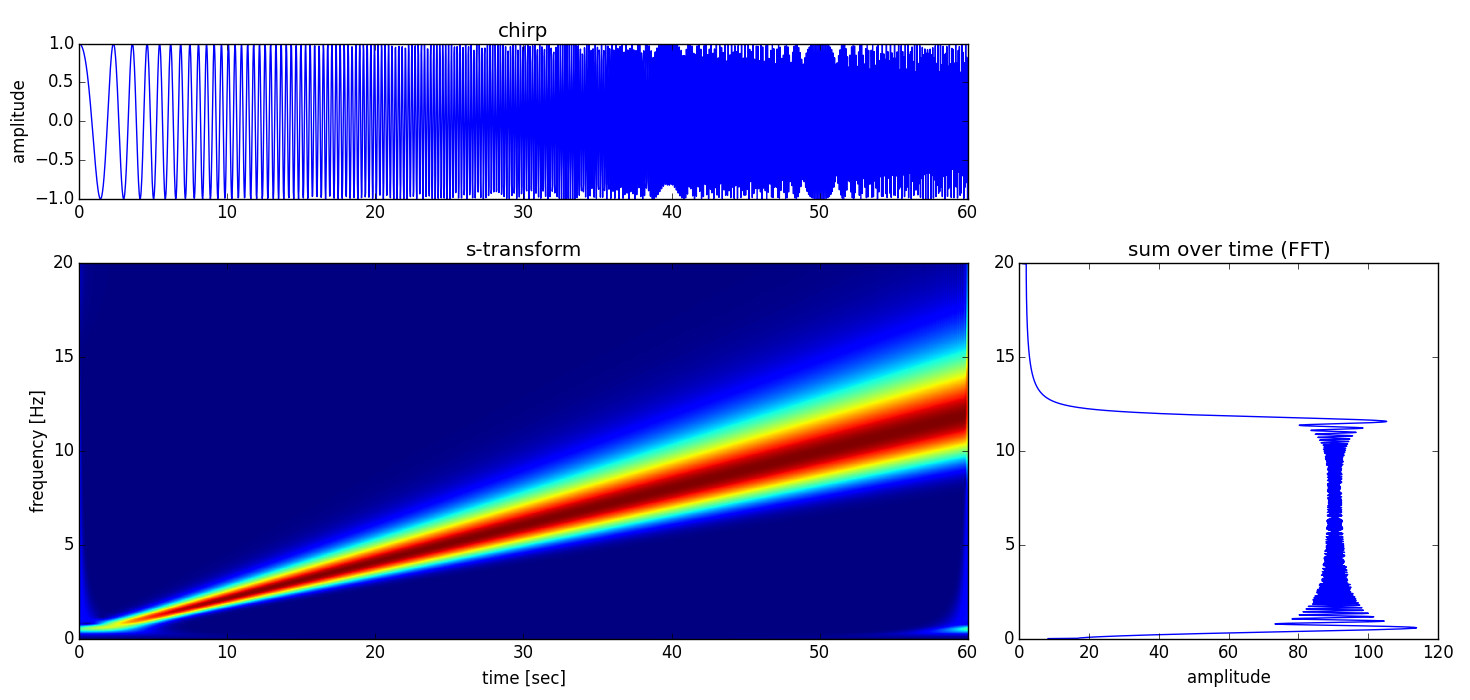
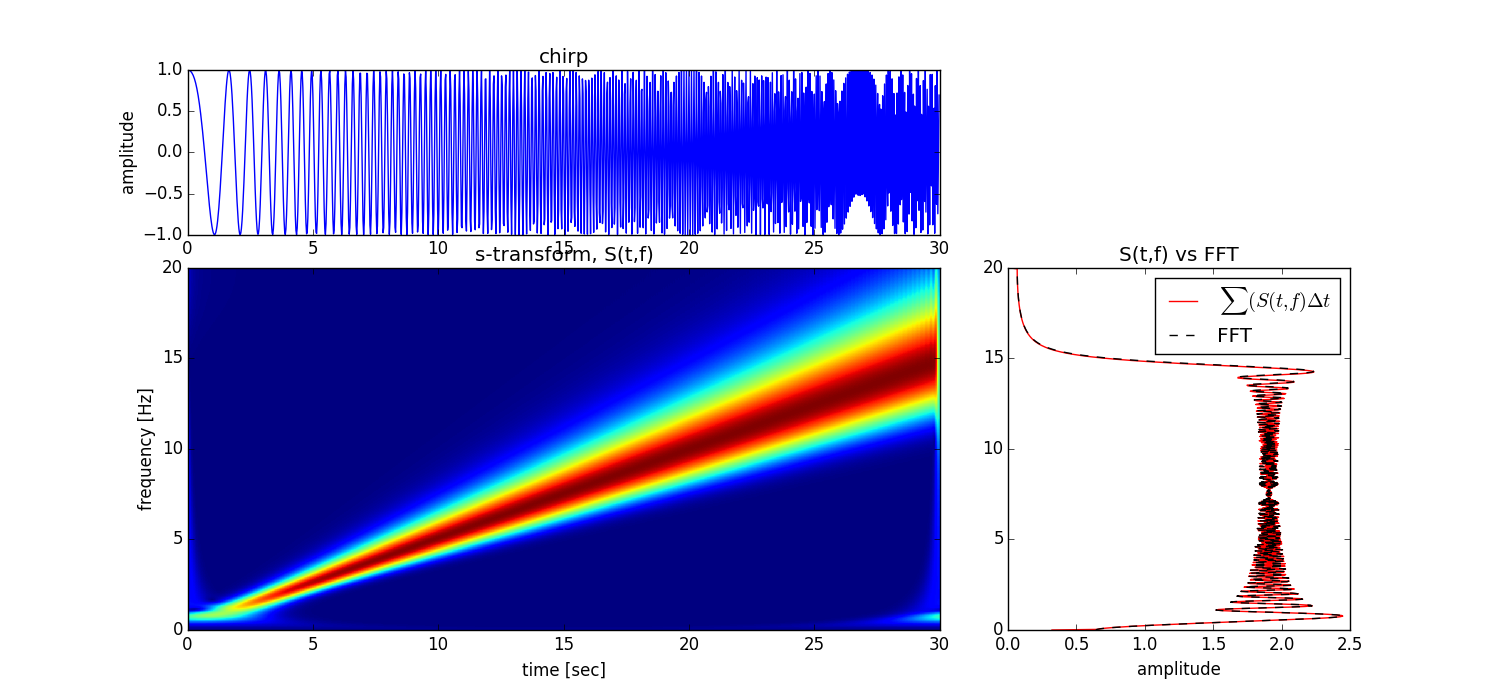
Add comparison to FFT to README.

diff --git a/README.md b/README.md
@@ -16,11 +16,11 @@ from scipy.signal import chirp
 from stockwell import stransform
 
 sample_rate = 40.0  #[Hz]
-total_sec = 60.0
+total_sec = 30.0
 
 # make a linear chirp
 t = np.arange(0.,total_sec,1./sample_rate)
-c = chirp(t, 0.2, 50.0, 10.0, method='linear', phi=0, vertex_zero=True)
+c = chirp(t, 0.2, 20.0, 10.0, method='linear', phi=0, vertex_zero=True)
 
 S, T, F = stransform(c, Fs=sample_rate)
 
@@ -28,7 +28,20 @@ S, T, F = stransform(c, Fs=sample_rate)
 
 Plotting is easy.
 
+``python
+plt.pcolormesh(T, F, abs(S))
+
+```
+
+Let's plot something nicer, though.
+
 ```python
+N = len(c)
+C = np.abs(np.fft.fft(c, N) * sample_rate)[:N/2 + 1] * 2.0/N
+df = 1.0 / (N/sample_rate)
+f = df * np.arange(len(C))
+dt = 1.0 / sample_rate
+
 fig = plt.figure(figsize=(15,7))
 
 ax1 = plt.subplot2grid((3, 3), (0, 0), colspan=2)
@@ -38,13 +51,16 @@ ax1.set_ylabel('amplitude')
 
 ax2 = plt.subplot2grid((3, 3), (1, 0), colspan=2, rowspan=2)
 ax2.pcolormesh(T, F, abs(S))
-ax2.set_title('s-transform')
+ax2.set_title('s-transform, S(t,f)')
 ax2.set_xlabel('time [sec]')
 ax2.set_ylabel('frequency [Hz]')
 
 ax3 = plt.subplot2grid((3, 3), (1, 2), rowspan=2)
-ax3.plot(abs(S.sum(axis=1)), F[:,0])
-ax3.set_title('sum down time (FFT)')
+ax3.plot(abs(S.sum(axis=1))/(t[-1] - t[0]), F[:,0], 'r', label=r'$\sum (S(t,f) \Delta t$')
+ax3.plot(C, f, '--k', label='FFT')
+ax3.set_title('S(t,f) vs FFT')
+ax3.set_xlabel('amplitude')
+plt.legend()
 
 plt.tight_layout()
 plt.draw()
